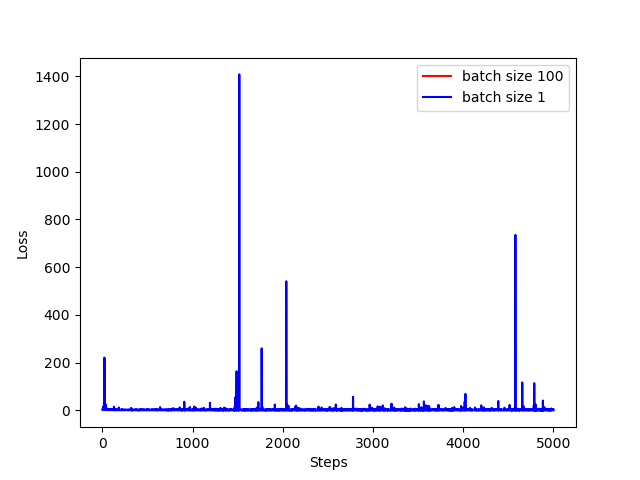
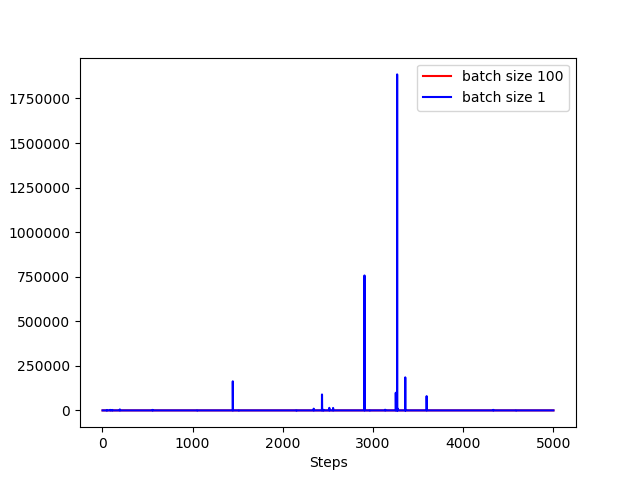
update part 2

diff --git a/part2/var_in_train.py b/part2/var_in_train.py
@@ -17,7 +17,7 @@ import pickle
 
 #########CONFIG####################
 mode = 1
-lr = 0.002
+lr = 0.1
 bsz = 1
 use_cuda = torch.cuda.is_available()
 ##################################
@@ -64,7 +64,7 @@ model = MLP(preprocessing.vocab_size, 20)
 if use_cuda:
     model.cuda()
 
-optim = torch.optim.SGD(model.parameters(), lr=lr, momentum=0.9)
+optim = torch.optim.SGD(model.parameters(), lr=lr, momentum=0)
 
 ######################################
 import ipdb
